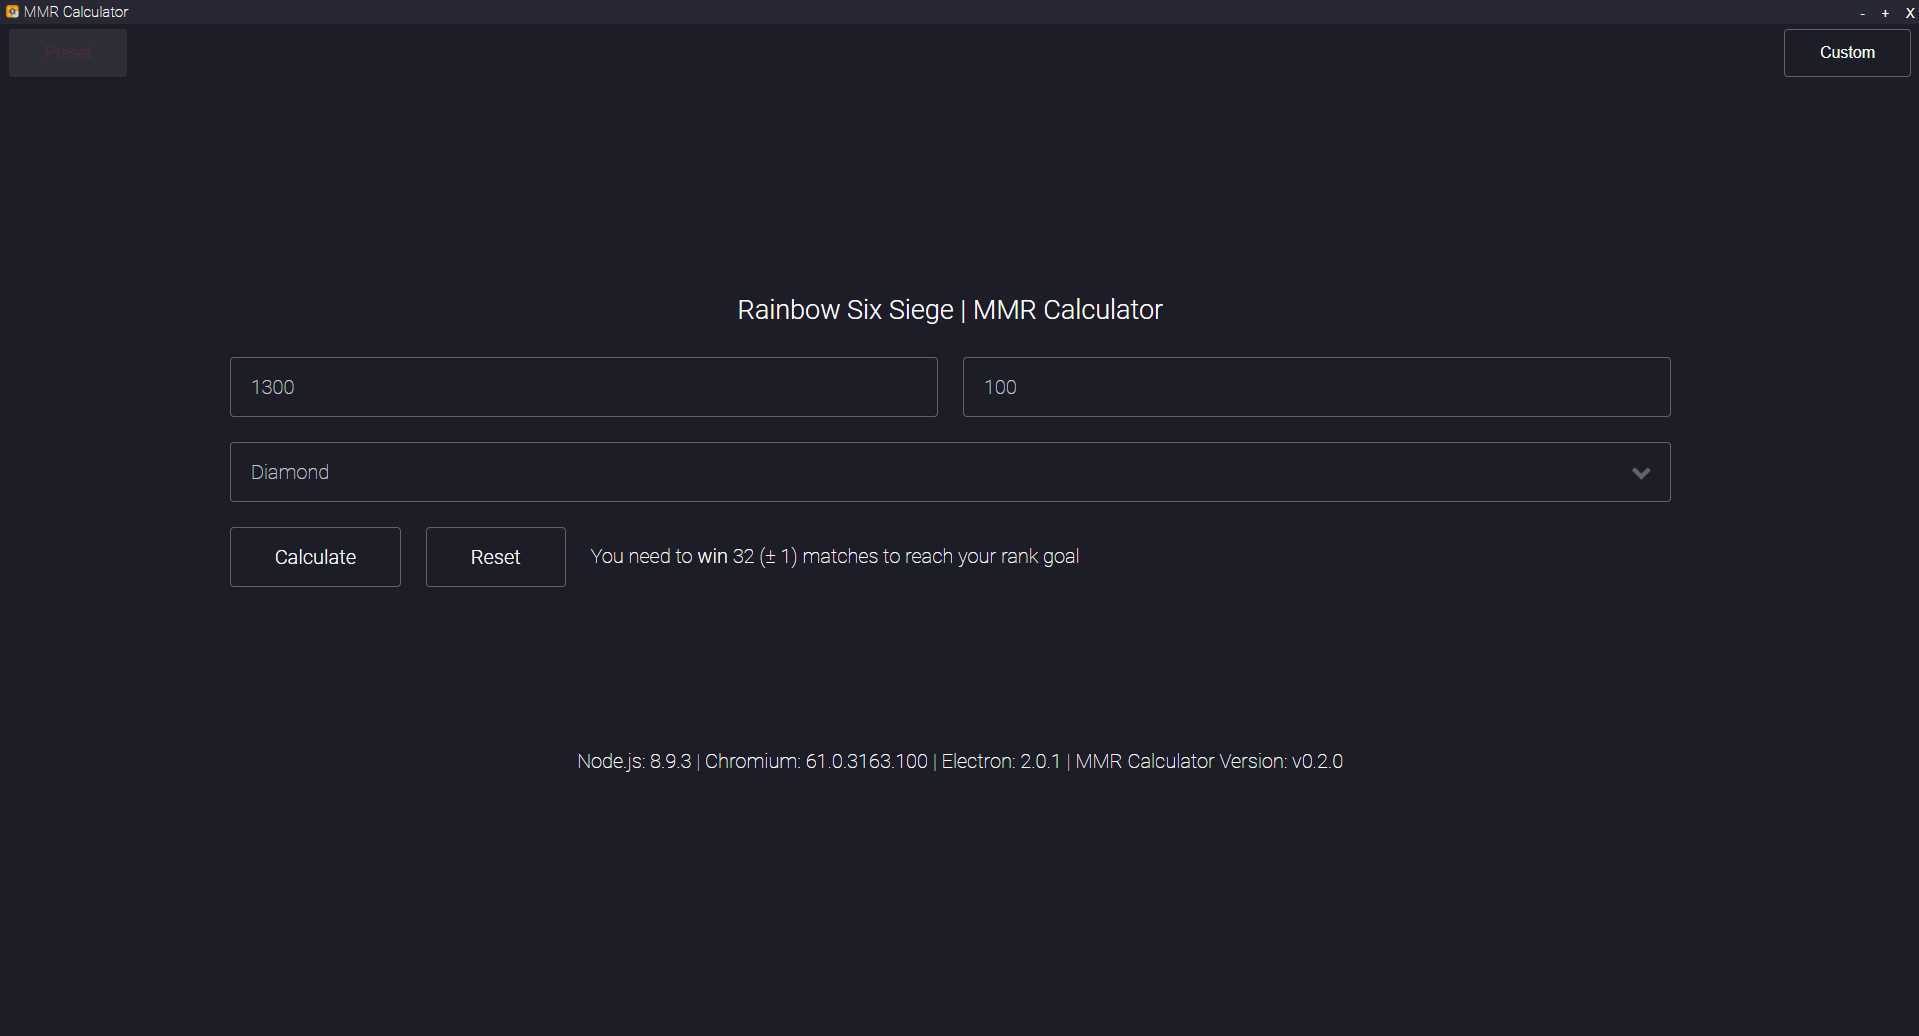
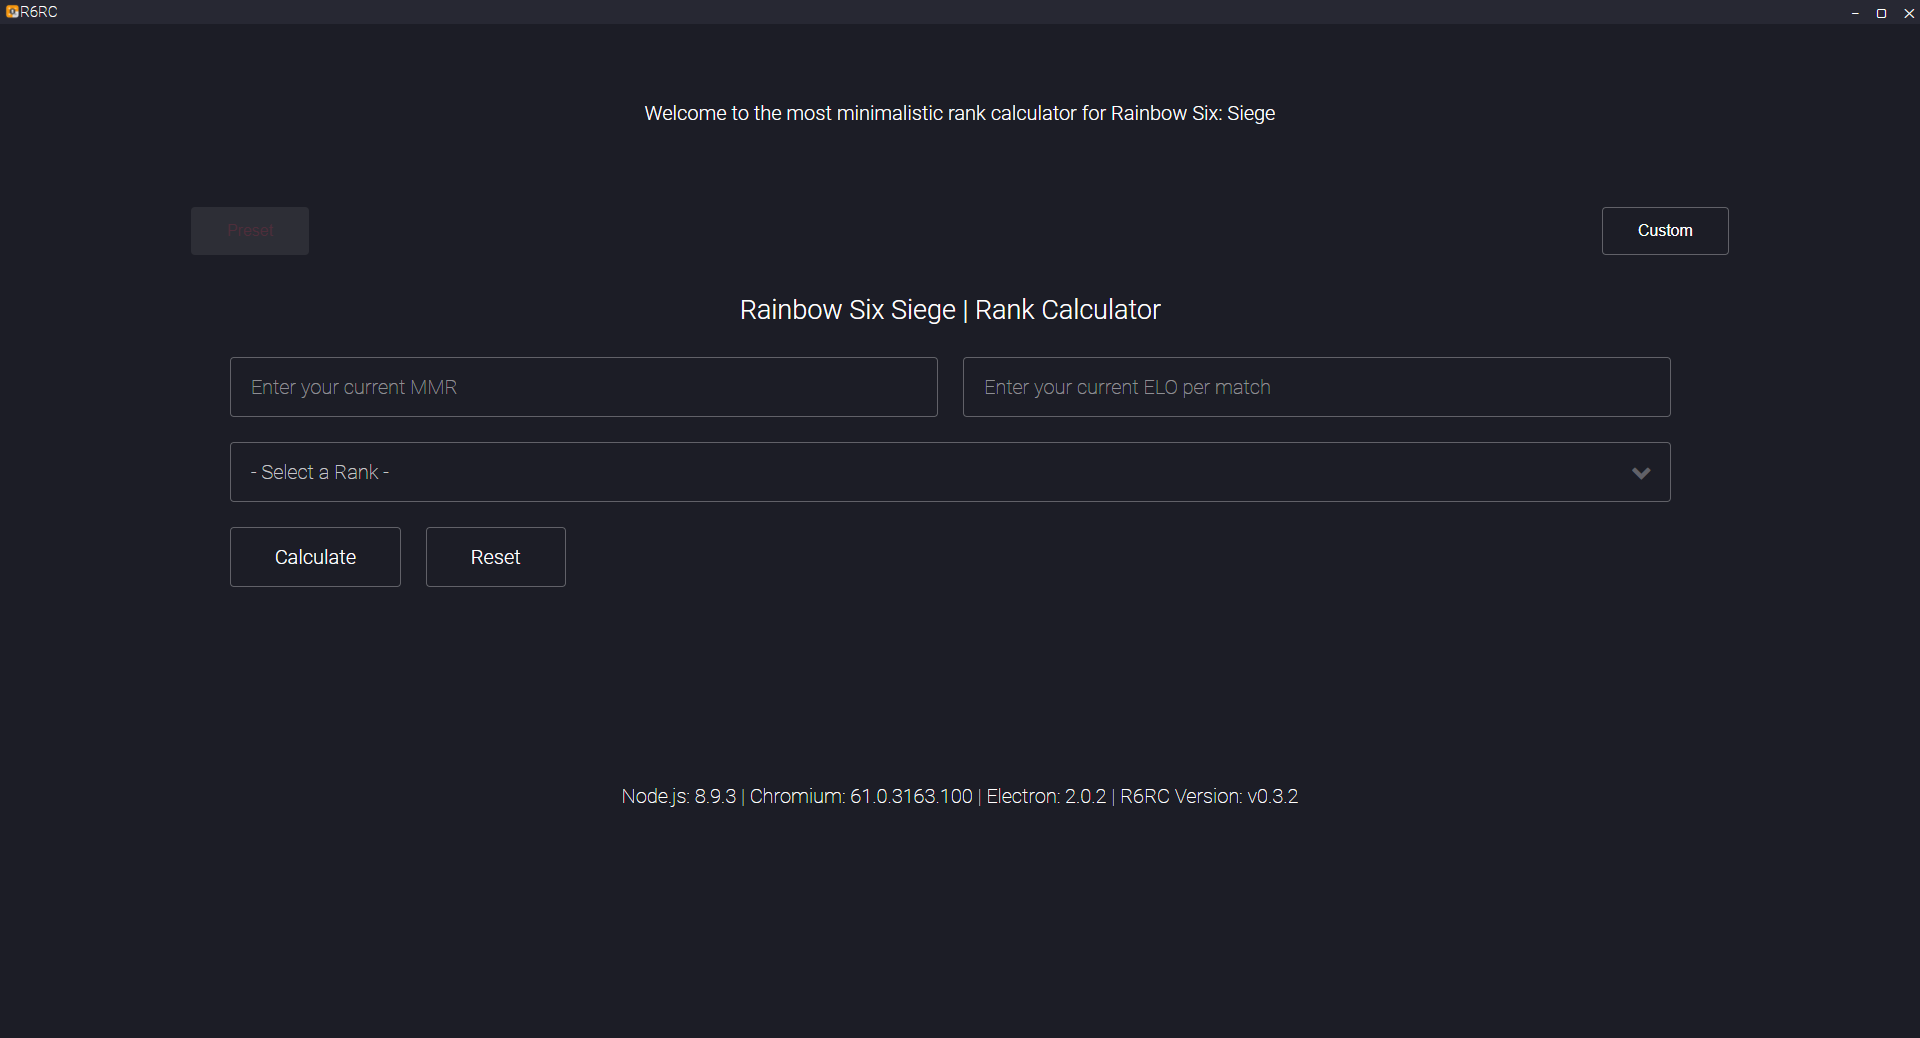
Current version as o]f 6/22/18

diff --git a/README.md b/README.md
@@ -1,6 +1,6 @@
 
 <p align="center">
-  <img src="home/images/mmrcalculator-icon.png" width="200"/>
+  <img src="home/images/r6rc-icon.png" width="200"/>
   <h1 align="center">R6RC</h3>
   <p align="center">
     <img src="https://img.shields.io/github/release/austinleath/mmrcalculator.svg" />
